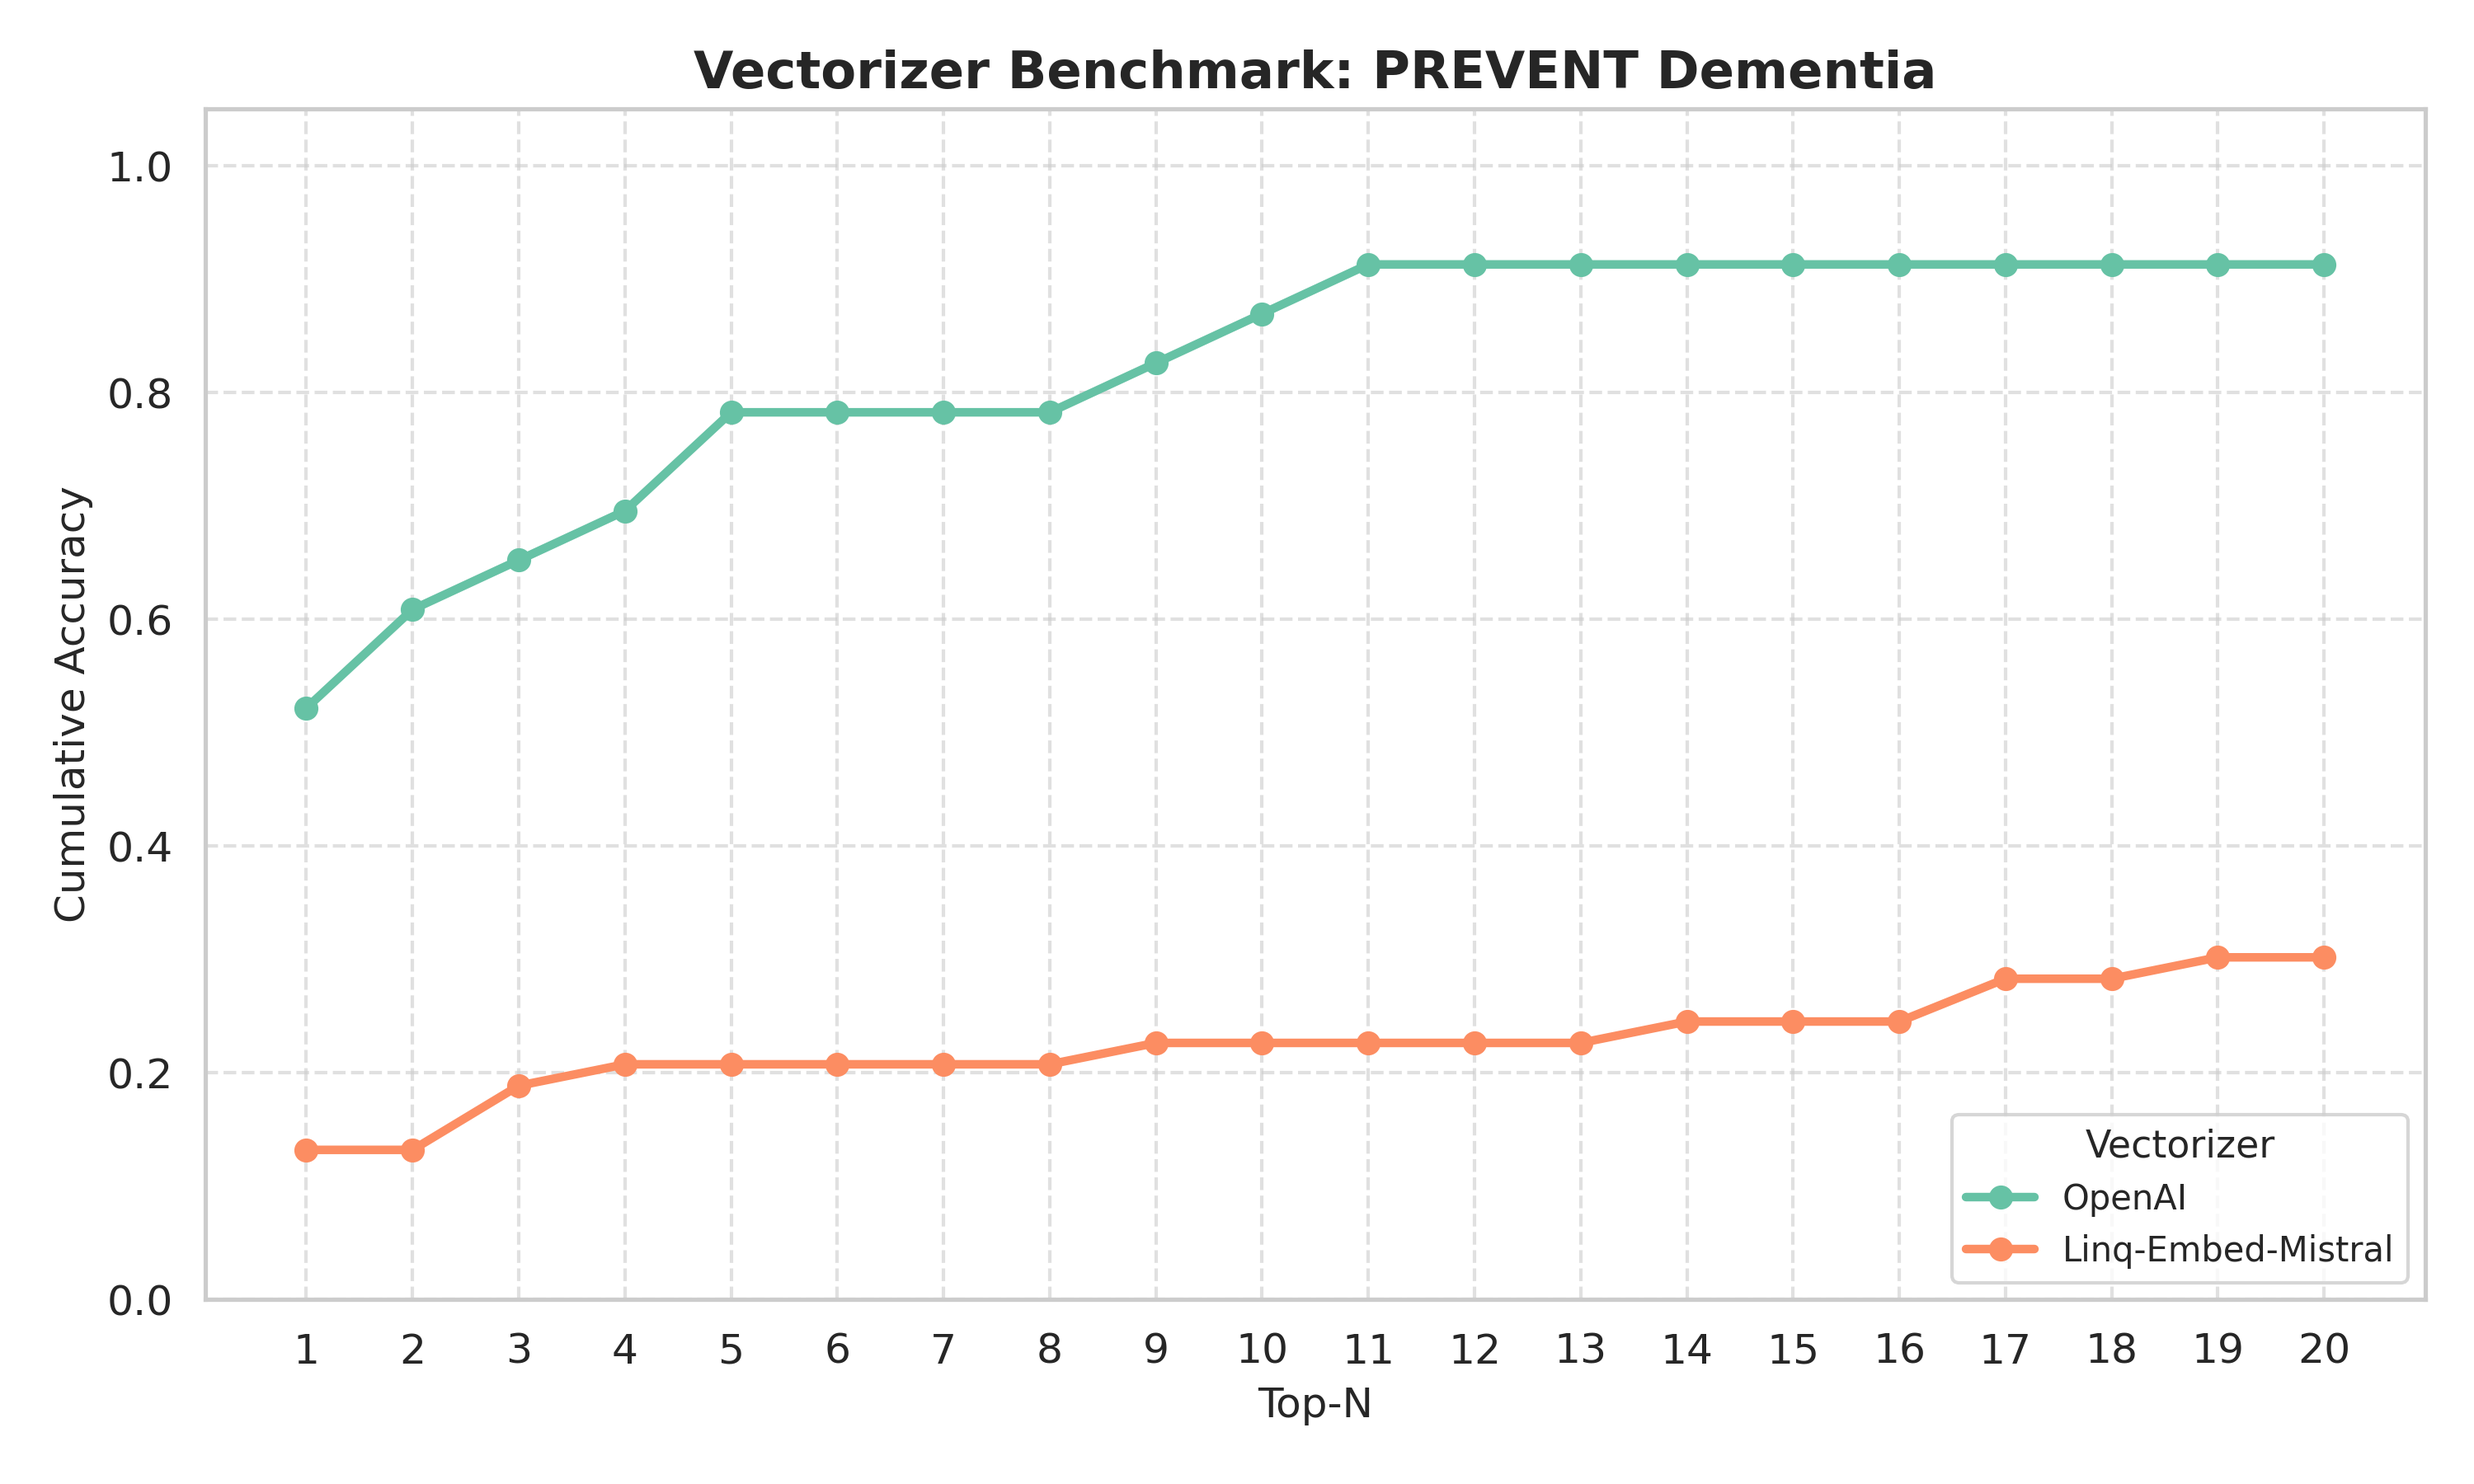
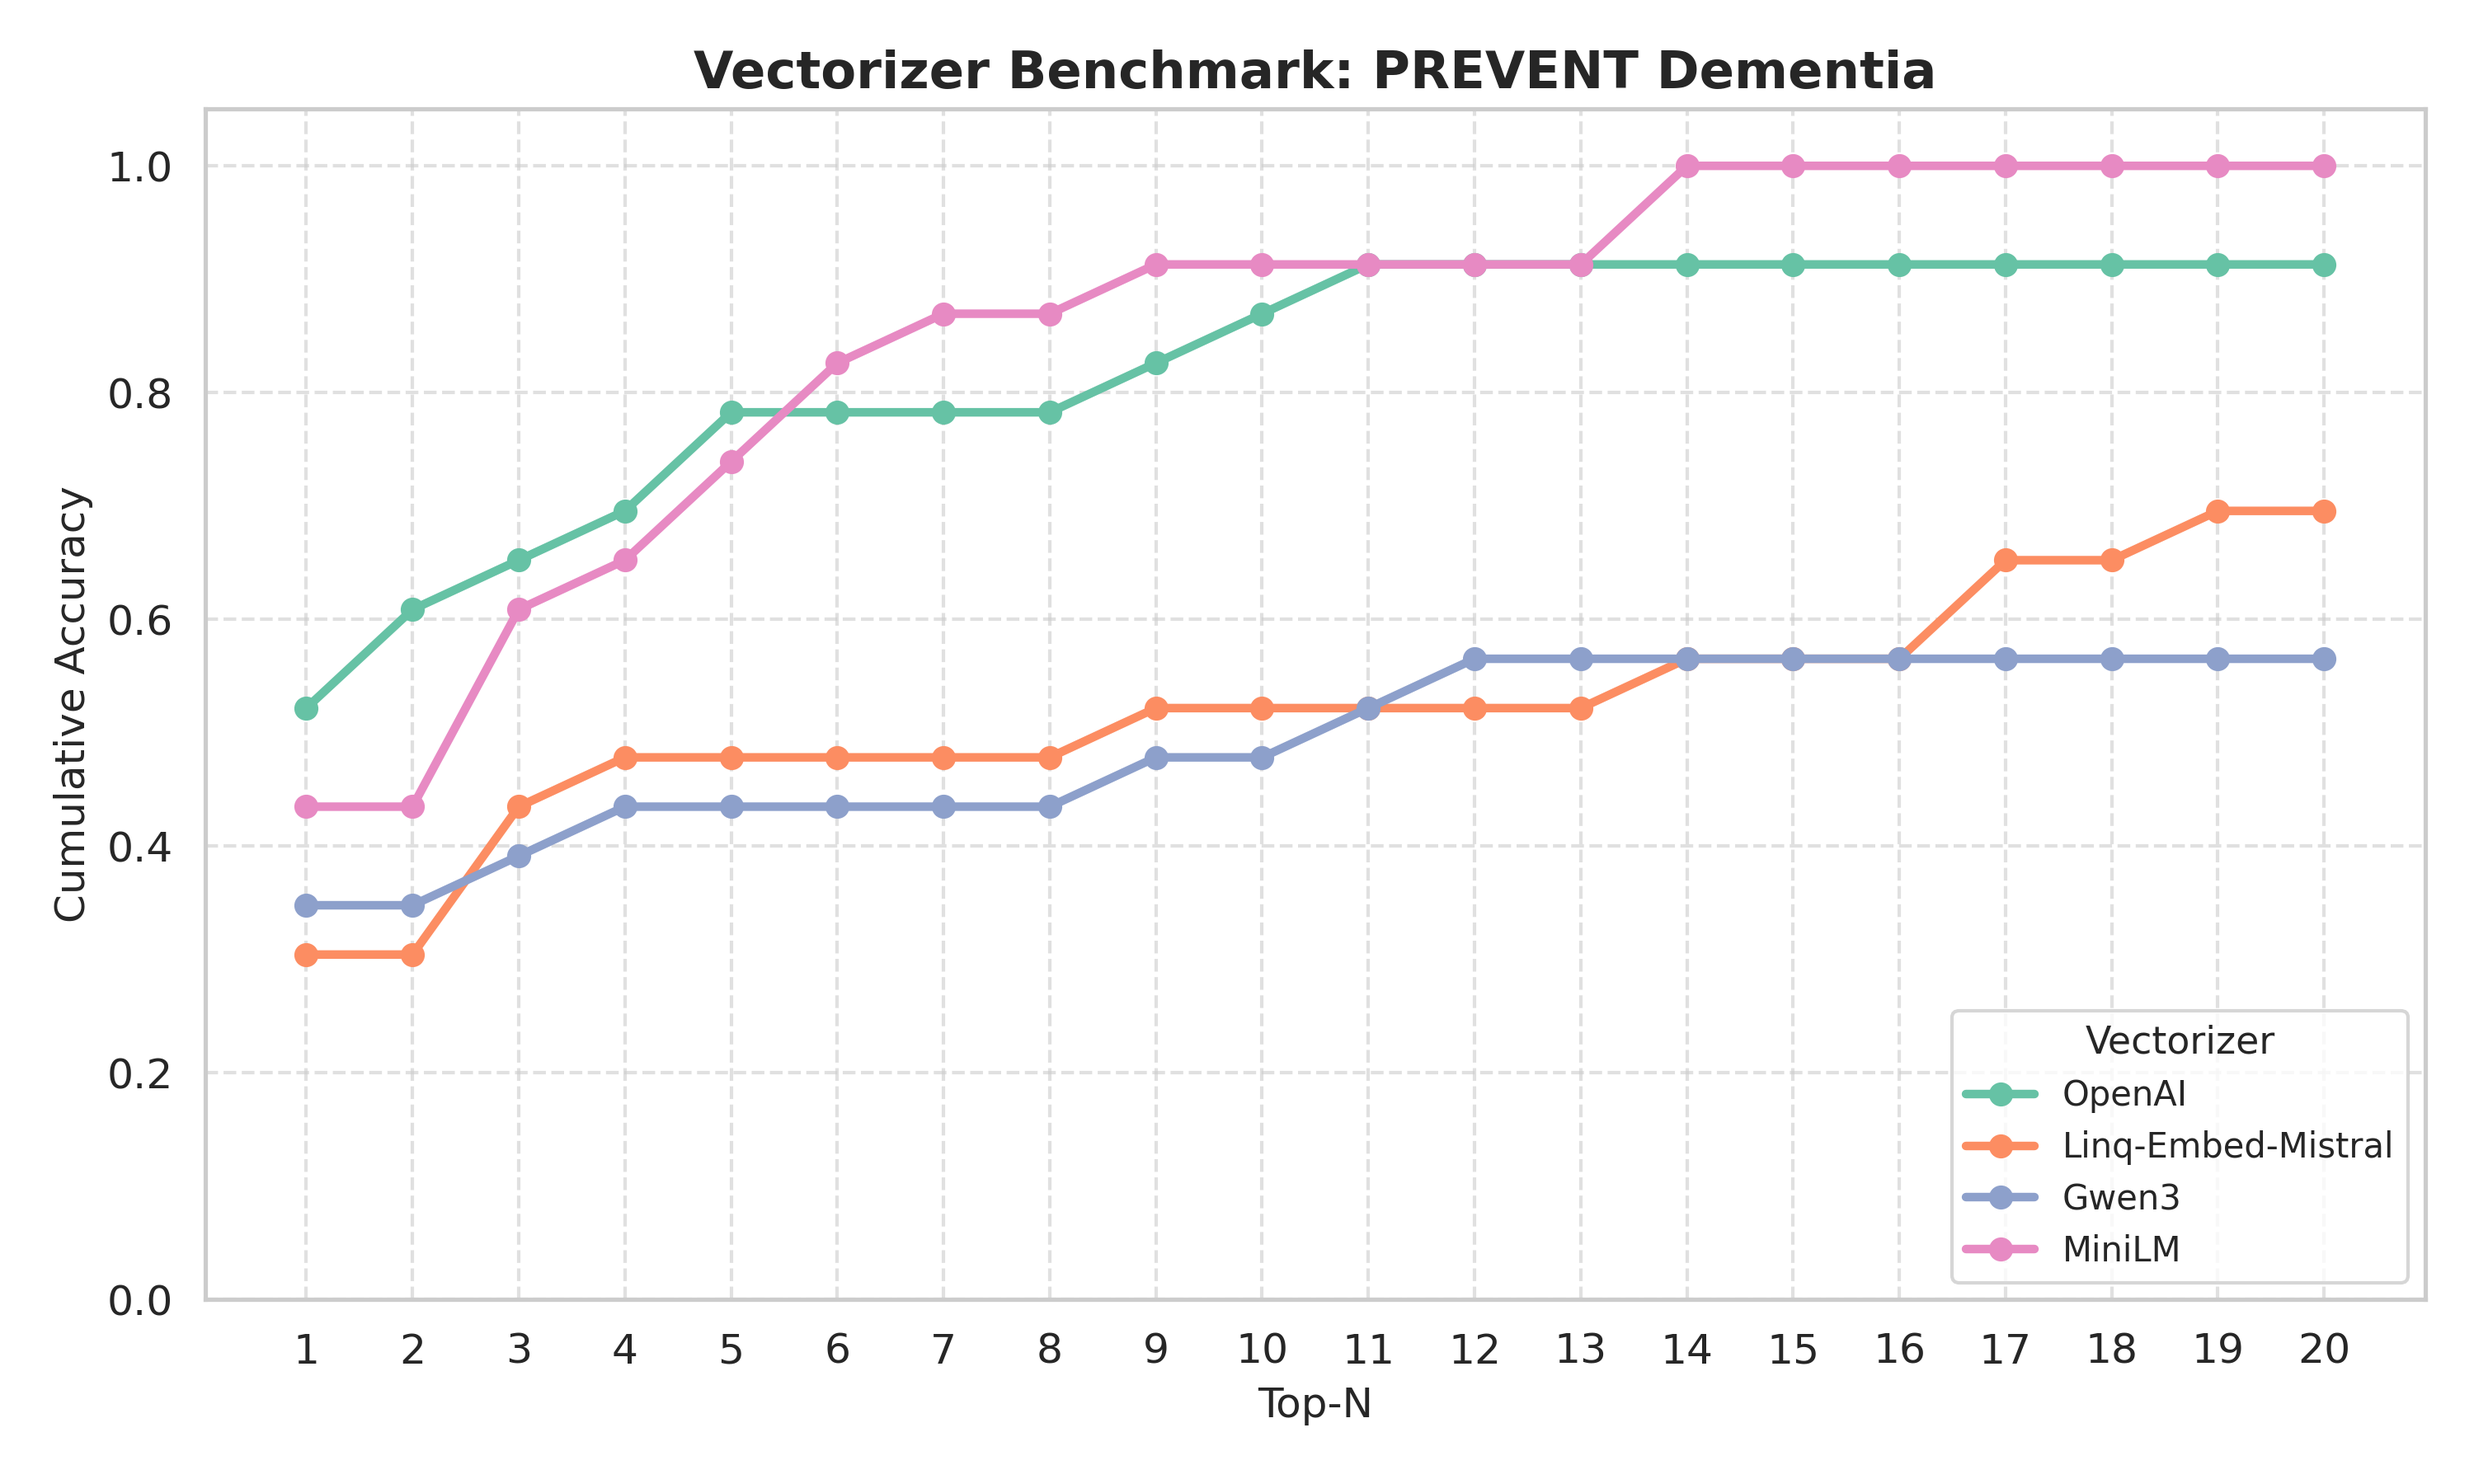
Update dependencies and enhance README with accuracy plots

diff --git a/ad-llm-embeddings-benchmark/visualization.py b/ad-llm-embeddings-benchmark/visualization.py
@@ -2,6 +2,7 @@ import matplotlib.pyplot as plt
 import seaborn as sns
 import pandas as pd
 from typing import Dict, List, Optional
+from pandas.plotting import table  # Import for rendering DataFrame as a table
 
 
 def plot_top_n_accuracies(
@@ -47,22 +48,41 @@ def plot_top_n_accuracies(
         plt.show()
 
 
-def summarize_top1_accuracies(all_accuracies: Dict[str, Dict[str, List[float]]]) -> pd.DataFrame:
+def summarize_top1_accuracies(all_accuracies: Dict[str, Dict[str, List[float]]], save_path=None) -> pd.DataFrame:
     """
-    Summarize top-1 accuracies for multiple vectorizers.
+    Summarize top-1 accuracies for multiple vectorizers in a table format.
 
     :param all_accuracies: Dict[vectorizer_name → Dict[cohort → List[float (length N)]]]
-    :return: DataFrame with columns: Cohort, Vectorizer, Top-1 Accuracy
+    :param save_path: If provided, save the summary table as an image in the specified directory.
+    :return: DataFrame with cohorts as rows, vectorizers as columns, and top-1 accuracies as values.
     """
-    summary = []
-    for vectorizer_name, cohort_dict in all_accuracies.items():
-        for cohort, acc_list in cohort_dict.items():
-            summary.append({
-                "Cohort": cohort,
-                "Vectorizer": vectorizer_name,
-                "Top-1 Accuracy": acc_list[0]  # top-1
-            })
-    return pd.DataFrame(summary).sort_values(by=["Cohort", "Vectorizer"])
+    # Create a DataFrame with cohorts as rows and vectorizers as columns
+    summary = {
+        vectorizer_name: {cohort: round(acc_list[0], 2) for cohort, acc_list in cohort_dict.items()}
+        for vectorizer_name, cohort_dict in all_accuracies.items()
+    }
+    df_summary = pd.DataFrame(summary).sort_index()
+
+    # Add bold formatting for the largest entry per row
+    def format_bold_row(row):
+        max_value = row.max()
+        return [f"**{value}**" if value == max_value else f"{value}" for value in row]
+
+    formatted_data = df_summary.apply(format_bold_row, axis=1).to_list()
+    df_summary_formatted = pd.DataFrame(formatted_data, index=df_summary.index, columns=df_summary.columns)
+
+    if save_path:
+        plt.figure(figsize=(12, 6))
+        ax = plt.gca()
+        ax.axis('off')  # Turn off the axis
+        tbl = table(ax, df_summary_formatted, loc='center', cellLoc='center')  # Render table
+        tbl.auto_set_font_size(False)
+        tbl.set_fontsize(10)
+        tbl.scale(1.2, 1.2)  # Scale table for better readability
+        plt.savefig(f"{save_path}/summary_table.png", dpi=300, bbox_inches='tight', pad_inches=0.1)
+        plt.close()
+
+    return df_summary
 
 
 def plot_topn_per_cohort(
@@ -128,33 +148,73 @@ results_openai = {
                          0.9130434782608695, 0.9130434782608695, 0.9130434782608695]}
 
 results_linq = {
-    'GERAS-I': [0.4166666666666667, 0.5, 0.5833333333333334, 0.5833333333333334, 0.6666666666666666, 0.6666666666666666,
-                0.6666666666666666, 0.75, 0.75, 0.75, 0.75, 0.75, 0.75, 0.75, 0.75, 0.75, 0.75, 0.75, 0.75,
-                0.8333333333333334],
-    'GERAS-US': [0.3, 0.3, 0.4, 0.5, 0.6, 0.6, 0.6, 0.6, 0.6, 0.6, 0.6, 0.6, 0.6, 0.6, 0.6, 0.6, 0.6, 0.6, 0.6, 0.6],
-    'GERAS-J': [0.38095238095238093, 0.5238095238095238, 0.6666666666666666, 0.6666666666666666, 0.6666666666666666,
-                0.6666666666666666, 0.7142857142857143, 0.7142857142857143, 0.7619047619047619, 0.7619047619047619,
-                0.7619047619047619, 0.7619047619047619, 0.7619047619047619, 0.7619047619047619, 0.7619047619047619,
-                0.7619047619047619, 0.7619047619047619, 0.7619047619047619, 0.8095238095238095, 0.8095238095238095],
-    'GERAS-II': [0.2222222222222222, 0.3333333333333333, 0.4444444444444444, 0.5555555555555556, 0.6666666666666666,
+    'GERAS-I': [0.45454545454545453, 0.5454545454545454, 0.6363636363636364, 0.6363636363636364, 0.7272727272727273,
+                0.7272727272727273, 0.7272727272727273, 0.8181818181818182, 0.8181818181818182, 0.8181818181818182,
+                0.8181818181818182, 0.8181818181818182, 0.8181818181818182, 0.8181818181818182, 0.8181818181818182,
+                0.8181818181818182, 0.8181818181818182, 0.8181818181818182, 0.8181818181818182, 0.9090909090909091],
+    'GERAS-US': [0.3333333333333333, 0.3333333333333333, 0.4444444444444444, 0.5555555555555556, 0.6666666666666666,
                  0.6666666666666666, 0.6666666666666666, 0.6666666666666666, 0.6666666666666666, 0.6666666666666666,
                  0.6666666666666666, 0.6666666666666666, 0.6666666666666666, 0.6666666666666666, 0.6666666666666666,
                  0.6666666666666666, 0.6666666666666666, 0.6666666666666666, 0.6666666666666666, 0.6666666666666666],
-    'PREVENT Dementia': [0.1320754716981132, 0.1320754716981132, 0.18867924528301888, 0.20754716981132076,
-                         0.20754716981132076, 0.20754716981132076, 0.20754716981132076, 0.20754716981132076,
-                         0.22641509433962265, 0.22641509433962265, 0.22641509433962265, 0.22641509433962265,
-                         0.22641509433962265, 0.24528301886792453, 0.24528301886792453, 0.24528301886792453,
-                         0.2830188679245283, 0.2830188679245283, 0.3018867924528302, 0.3018867924528302]}
+    'GERAS-J': [0.4, 0.55, 0.7, 0.7, 0.7, 0.7, 0.75, 0.75, 0.8, 0.8, 0.8, 0.8, 0.8, 0.8, 0.8, 0.8, 0.8, 0.8, 0.85,
+                0.85],
+    'GERAS-II': [0.25, 0.375, 0.5, 0.625, 0.75, 0.75, 0.75, 0.75, 0.75, 0.75, 0.75, 0.75, 0.75, 0.75, 0.75, 0.75, 0.75,
+                 0.75, 0.75, 0.75],
+    'PREVENT Dementia': [0.30434782608695654, 0.30434782608695654, 0.43478260869565216, 0.4782608695652174,
+                         0.4782608695652174, 0.4782608695652174, 0.4782608695652174, 0.4782608695652174,
+                         0.5217391304347826, 0.5217391304347826, 0.5217391304347826, 0.5217391304347826,
+                         0.5217391304347826, 0.5652173913043478, 0.5652173913043478, 0.5652173913043478,
+                         0.6521739130434783, 0.6521739130434783, 0.6956521739130435, 0.6956521739130435]}
+
+results_gwen3 = {
+    'GERAS-I': [0.5454545454545454, 0.6363636363636364, 0.6363636363636364, 0.6363636363636364, 0.6363636363636364,
+                0.6363636363636364, 0.6363636363636364, 0.6363636363636364, 0.6363636363636364, 0.6363636363636364,
+                0.6363636363636364, 0.6363636363636364, 0.6363636363636364, 0.7272727272727273, 0.7272727272727273,
+                0.7272727272727273, 0.7272727272727273, 0.7272727272727273, 0.7272727272727273, 0.7272727272727273],
+    'GERAS-US': [0.4444444444444444, 0.4444444444444444, 0.4444444444444444, 0.4444444444444444, 0.4444444444444444,
+                 0.4444444444444444, 0.4444444444444444, 0.4444444444444444, 0.4444444444444444, 0.4444444444444444,
+                 0.4444444444444444, 0.4444444444444444, 0.4444444444444444, 0.4444444444444444, 0.4444444444444444,
+                 0.4444444444444444, 0.4444444444444444, 0.4444444444444444, 0.4444444444444444, 0.4444444444444444],
+    'GERAS-J': [0.45, 0.45, 0.5, 0.55, 0.55, 0.55, 0.55, 0.55, 0.55, 0.55, 0.55, 0.6, 0.65, 0.65, 0.65, 0.7, 0.7, 0.7,
+                0.7, 0.75],
+    'GERAS-II': [0.375, 0.375, 0.375, 0.375, 0.375, 0.375, 0.375, 0.375, 0.375, 0.375, 0.5, 0.5, 0.5, 0.5, 0.5, 0.5,
+                 0.5, 0.5, 0.5, 0.5],
+    'PREVENT Dementia': [0.34782608695652173, 0.34782608695652173, 0.391304347826087, 0.43478260869565216,
+                         0.43478260869565216, 0.43478260869565216, 0.43478260869565216, 0.43478260869565216,
+                         0.4782608695652174, 0.4782608695652174, 0.5217391304347826, 0.5652173913043478,
+                         0.5652173913043478, 0.5652173913043478, 0.5652173913043478, 0.5652173913043478,
+                         0.5652173913043478, 0.5652173913043478, 0.5652173913043478, 0.5652173913043478]}
+
+all_mini_lm = {
+    'GERAS-I': [0.45454545454545453, 0.7272727272727273, 0.7272727272727273, 0.7272727272727273, 0.7272727272727273,
+                0.7272727272727273, 0.7272727272727273, 0.8181818181818182, 0.8181818181818182, 0.8181818181818182,
+                0.9090909090909091, 0.9090909090909091, 0.9090909090909091, 0.9090909090909091, 0.9090909090909091,
+                0.9090909090909091, 0.9090909090909091, 0.9090909090909091, 0.9090909090909091, 0.9090909090909091],
+    'GERAS-US': [0.4444444444444444, 0.5555555555555556, 0.6666666666666666, 0.6666666666666666, 0.7777777777777778,
+                 0.7777777777777778, 0.7777777777777778, 0.8888888888888888, 0.8888888888888888, 0.8888888888888888,
+                 0.8888888888888888, 0.8888888888888888, 0.8888888888888888, 0.8888888888888888, 0.8888888888888888,
+                 0.8888888888888888, 0.8888888888888888, 0.8888888888888888, 0.8888888888888888, 0.8888888888888888],
+    'GERAS-J': [0.7, 0.85, 0.9, 0.95, 1.0, 1.0, 1.0, 1.0, 1.0, 1.0, 1.0, 1.0, 1.0, 1.0, 1.0, 1.0, 1.0, 1.0, 1.0, 1.0],
+    'GERAS-II': [0.5, 0.5, 0.5, 0.5, 0.625, 0.625, 0.625, 0.75, 0.75, 0.75, 0.75, 0.75, 0.75, 0.75, 0.75, 0.75, 0.75,
+                 0.875, 0.875, 0.875],
+    'PREVENT Dementia': [0.43478260869565216, 0.43478260869565216, 0.6086956521739131, 0.6521739130434783,
+                         0.7391304347826086, 0.8260869565217391, 0.8695652173913043, 0.8695652173913043,
+                         0.9130434782608695, 0.9130434782608695, 0.9130434782608695, 0.9130434782608695,
+                         0.9130434782608695, 1.0, 1.0, 1.0, 1.0, 1.0, 1.0, 1.0]}
 
 plot_top_n_accuracies(accuracies=results_linq, vectorizer_name="Linq-Embed-Mistral", save_path="plots")
 plot_top_n_accuracies(accuracies=results_openai, vectorizer_name="OpenAI", save_path="plots")
+plot_top_n_accuracies(accuracies=results_gwen3, vectorizer_name="Gwen3", save_path="plots")
+plot_top_n_accuracies(accuracies=all_mini_lm, vectorizer_name="MiniLM", save_path="plots")
 
 all_accuracies = {
     "OpenAI": results_openai,
     "Linq-Embed-Mistral": results_linq,
+    "Gwen3": results_gwen3,
+    "MiniLM": all_mini_lm
 }
 
-df_summary = summarize_top1_accuracies(all_accuracies)
+df_summary = summarize_top1_accuracies(all_accuracies, save_path="plots")
 print(df_summary)
 
 plot_topn_per_cohort(all_accuracies, title_prefix="Vectorizer Benchmark", save_path="plots")

diff --git a/ad-llm-embeddings-benchmark/main.py b/ad-llm-embeddings-benchmark/main.py
@@ -1,32 +1,27 @@
-
 import os
-from typing import Dict, List
-from typing import Dict, List
 from benchmarking import Benchmark
-from vectorizers import OpenAIVectorizer, LinqEmbedMistralVectorizer
+from vectorizers import *
 import logging
 
 logging.basicConfig(
     level=logging.INFO,  # Or DEBUG for more detailed logs
-    format='%(asctime)s - %(name)s - %(levelname)s - %(message)s'
+    format="%(asctime)s - %(name)s - %(levelname)s - %(message)s",
 )
 # Set the default logging level to WARNING for all loggers
 logging.getLogger().setLevel(logging.WARNING)
 
 # Set the logging level to INFO for the benchmarking class
-logging.getLogger('benchmarking').setLevel(logging.INFO)
+logging.getLogger("benchmarking").setLevel(logging.INFO)
 
 # load the OpenAI API key from env
 openai_api_key = os.getenv("OPENAI_API_KEY")
 
 openai_vectorizer = OpenAIVectorizer(api_key=openai_api_key)
-#linq_embed_mistral = LinqEmbedMistralVectorizer()
 
 vectorizers = [openai_vectorizer]
 
 for vectorizer in vectorizers:
     print(f"Running benchmark for {vectorizer.model_name}...")
-    benchmark : Dict[str, List[float]]= Benchmark(vectorizer=vectorizer)
-    accuracies: Dict[str, List[float]] = benchmark.get_accuracies()
+    benchmark = Benchmark(vectorizer=vectorizer)
+    accuracies = benchmark.get_accuracies()
     print(f"Accuracies for {vectorizer.model_name}: {accuracies}")
-    

diff --git a/README.md b/README.md
@@ -1,1 +1,24 @@
-# ad-llm-embeddings-benchmark
+# AD Text Embedding Benchmark 
+
+## Zero Shot - Best Match Accuracy
+![Summary Table](ad-llm-embeddings-benchmark/plots/summary_table.png)
+
+## Top-N Accuracies
+
+<table>
+  <tr>
+    <td><img src="ad-llm-embeddings-benchmark/plots/GERAS-I.png" alt="Geras I"></td>
+    <td><img src="ad-llm-embeddings-benchmark/plots/GERAS-II.png" alt="Geras II"></td>
+  </tr>
+  <tr>
+    <td><img src="ad-llm-embeddings-benchmark/plots/GERAS-J.png" alt="Geras J"></td>
+    <td><img src="ad-llm-embeddings-benchmark/plots/GERAS-US.png" alt="GeRAS US"></td>
+  </tr>
+  <tr>
+    <td><img src="ad-llm-embeddings-benchmark/plots/PREVENT Dementia.png" alt="PREVENT Dementia"></td>
+  </tr>
+</table>
+
+
+
+
